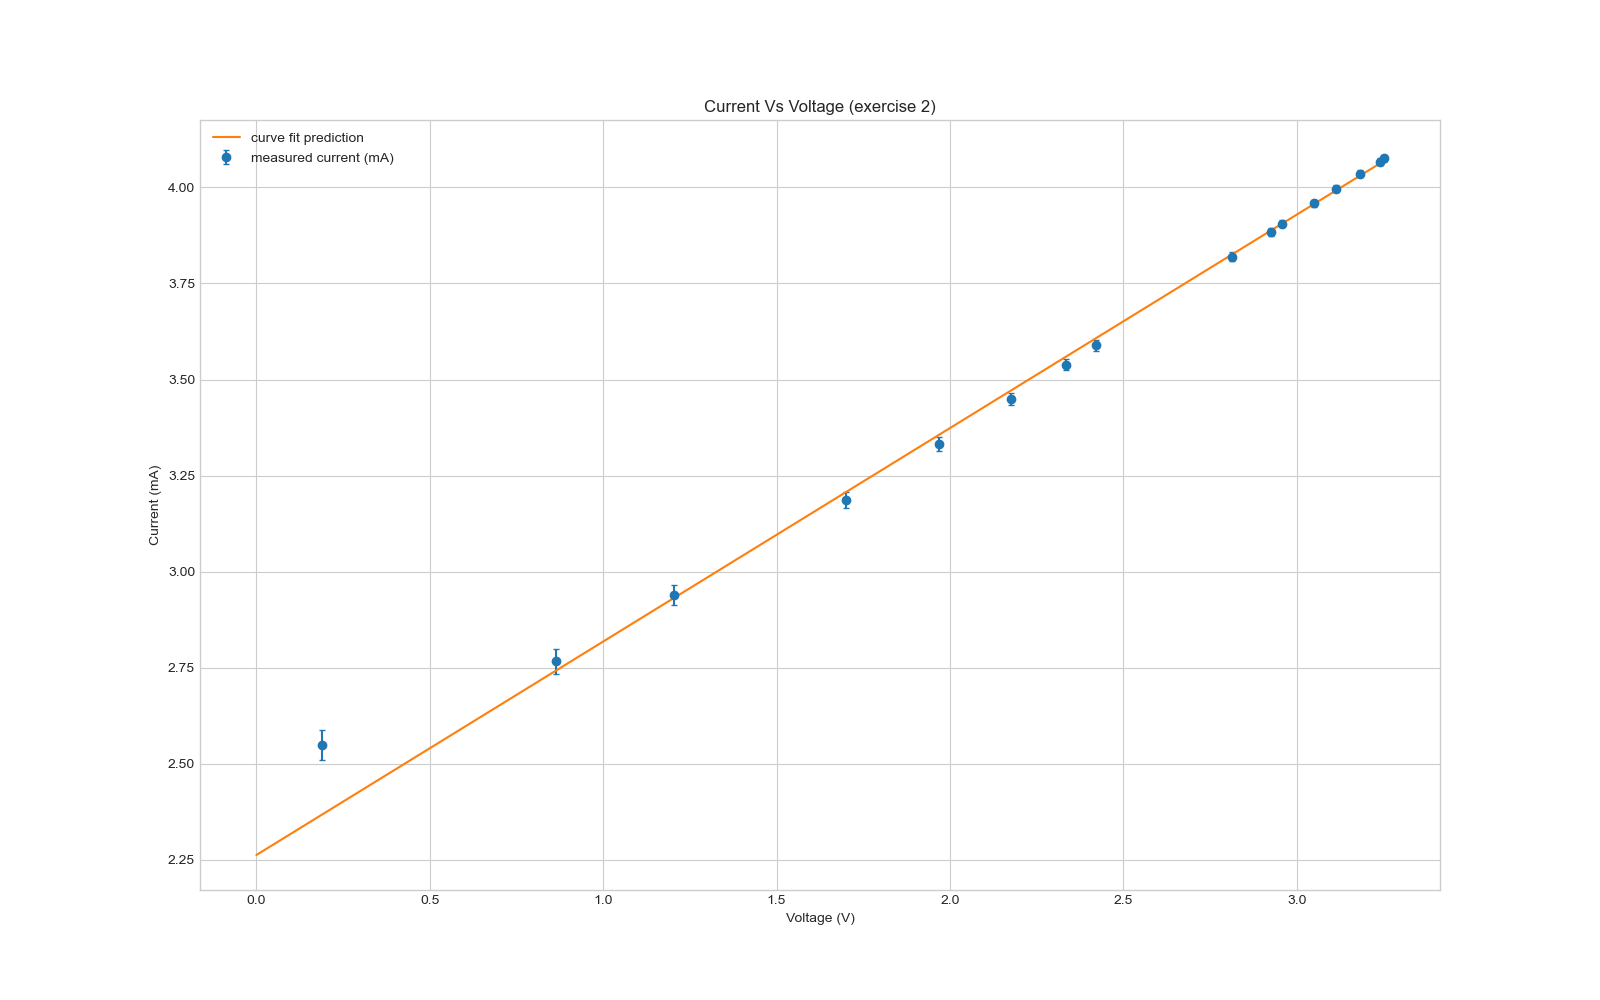
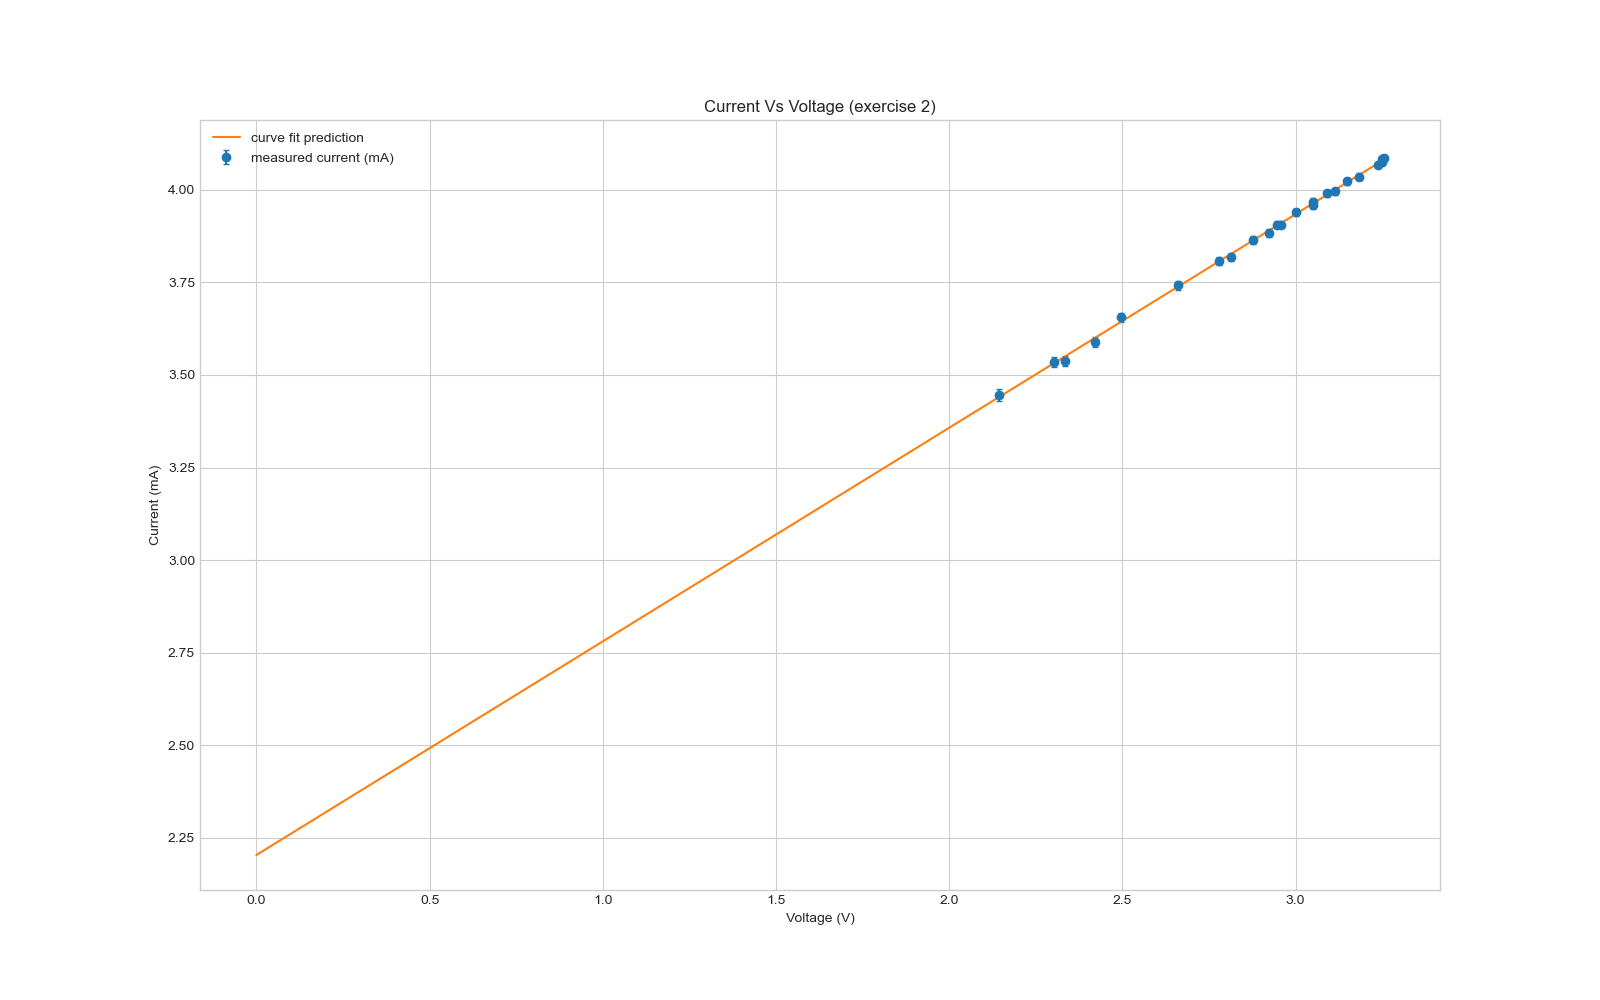
add the guess from linear model

diff --git a/lab1/Exercise2/lab_1_ex_2_code.py b/lab1/Exercise2/lab_1_ex_2_code.py
@@ -114,13 +114,15 @@ def do_linear_analysis():
     
     plt.savefig("lab_1_ex_2_plot_linear_%s.png" % filename[:-4].lower())
     
-def do_non_linear_analysis():
+    return popt
+    
+def do_non_linear_analysis(guess):
     # fit the measured data using curve_fit function
     popt, pstd = utils.fit_data(non_linear_model_function, 
                           measured_voltages, 
                           measured_currents, 
                           current_errors, 
-                          guess=(1/100, 0))
+                          guess=(guess[0], guess[1]))
     
     # generate data for predicted values using estimated resistance
     # obtained using  curve fit model
@@ -167,7 +169,7 @@ def do_non_linear_analysis():
     plt.savefig("lab_1_ex_2_plot_non_linear_%s.png" % filename[:-4].lower())
     
 # do linear analysis
-do_linear_analysis()
+guess = do_linear_analysis()
 
 # do non-linear analysis
-do_non_linear_analysis()
+do_non_linear_analysis(guess)
